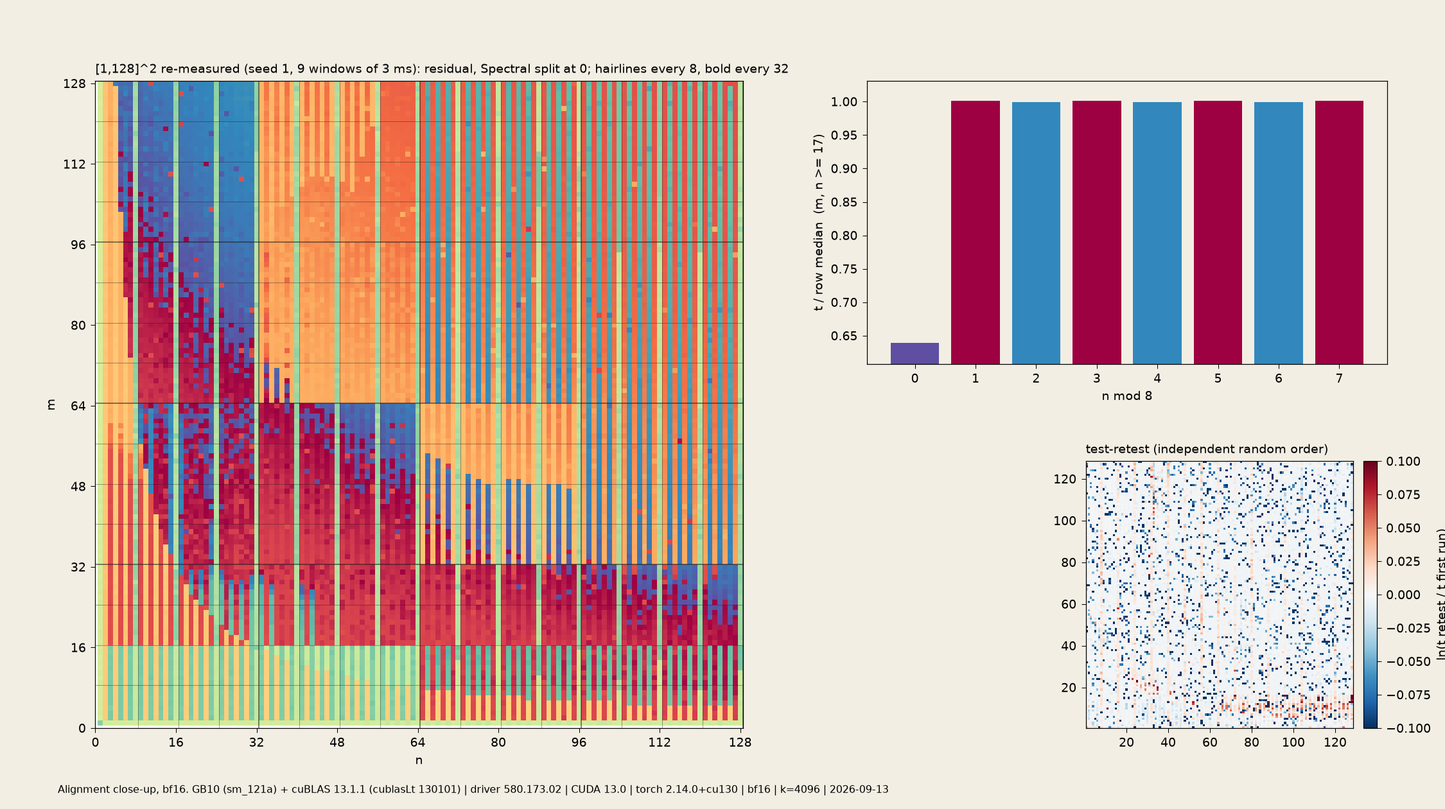
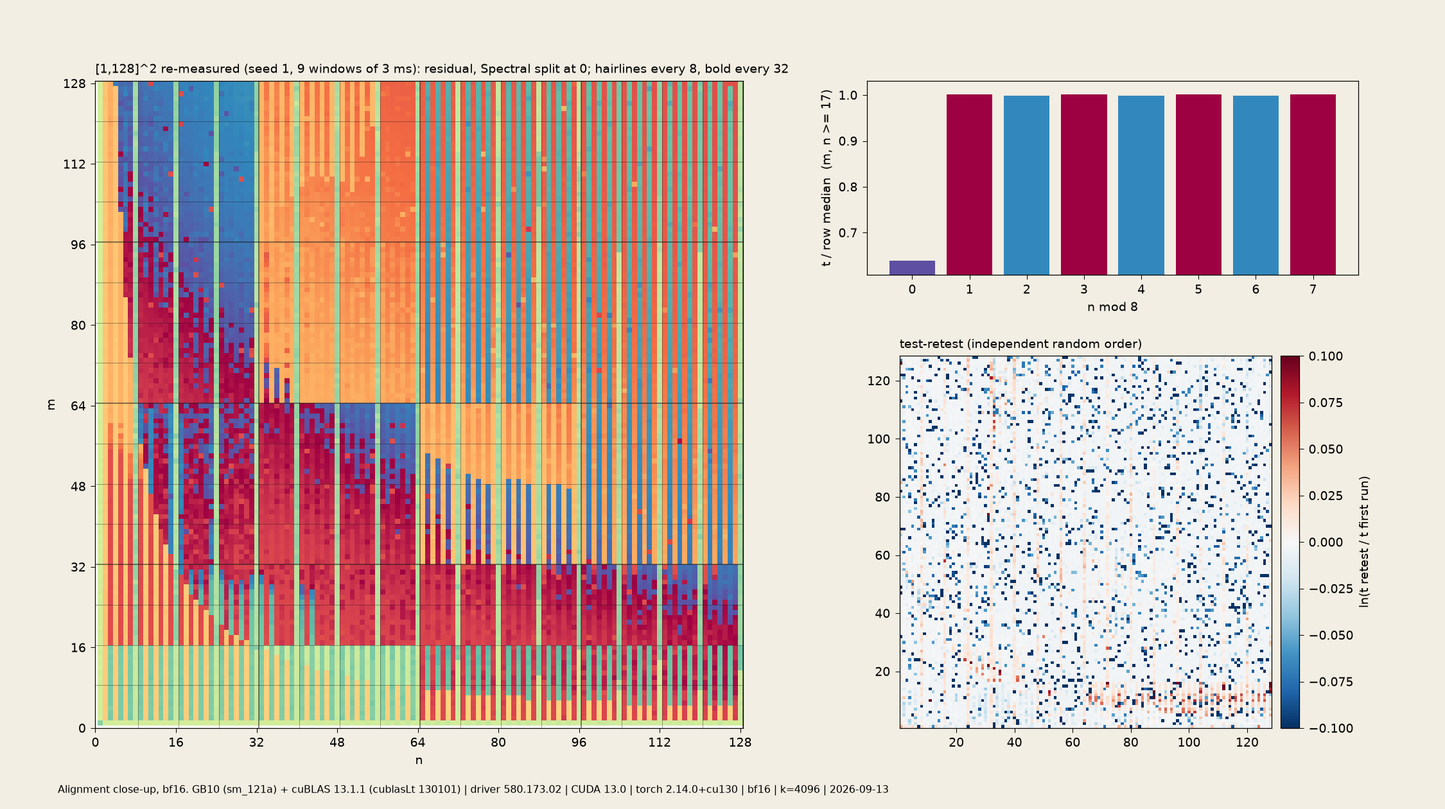
hardware/lattice: stride-13 [13,2041]^2 sweeps (bf16/fp16/fp32), cliff maps, parity-split mosaics/spectral, profiles, large triptych, README, NOTES complete

Changed region(s): [[0.56, 0.0929, 1.0, 0.9286]]

diff --git a/hardware/lattice/render_large.py b/hardware/lattice/render_large.py
@@ -1,0 +1,146 @@
+"""render_large.py - stride-13 [13,2041]^2 analysis + plates (no GPU). Writes cache/stats_large.json and
+gallery/{cliffs_*, large_triptych_spectral, profiles_plate_*}.  Run after render.py (which makes the per-run s2048 plates):
+    OMP_NUM_THREADS=1 taskset -c 0-4 nice python render_large.py
+"""
+import json
+import numpy as np
+from scipy.stats import spearmanr
+from render import *
+from render_compare import align_stats
+
+DTS = ("bf16", "fp16", "fp32")
+TAG = "{}_s2048_k4096"
+
+
+def jumps(r, kid):
+    """|delta residual| between neighbours in m (same n) and in n at the same parity (n vs n+26), and whether the
+    kernel label changes across that edge. Returns two lists of (J, boundary, i, j, axis)."""
+    out = []
+    Jm = np.abs(np.diff(r, axis=0)); Bm = kid[1:] != kid[:-1]
+    Jn = np.abs(r[:, 2:] - r[:, :-2]); Bn = kid[:, 2:] != kid[:, :-2]
+    return (Jm, Bm), (Jn, Bn)
+
+
+def cliff_stats(T, K, r, kid, kv):
+    (Jm, Bm), (Jn, Bn) = jumps(r, kid)
+    J = np.concatenate([Jm.ravel(), Jn.ravel()]); B = np.concatenate([Bm.ravel(), Bn.ravel()])
+    v = T["grid"]; labs = [l for l, _ in kv]
+    top = []
+    for arr, bb, ax in ((Jm, Bm, "m"), (Jn, Bn, "n")):
+        for flat in np.argsort(np.where(bb, arr, 0).ravel())[::-1][:6]:
+            i, j = np.unravel_index(flat, arr.shape)
+            i2, j2 = (i + 1, j) if ax == "m" else (i, j + 2)
+            top.append(dict(axis=ax, frm=[int(v[i]), int(v[j])], to=[int(v[i2]), int(v[j2])], ratio=float(np.exp(r[i2, j2] - r[i, j])),
+                            k_from=short_label(labs[kid[i, j]]), k_to=short_label(labs[kid[i2, j2]])))
+    top.sort(key=lambda d: -abs(np.log(d["ratio"])))
+    thr = np.log(1.2)
+    return dict(edges=int(J.size), boundary_edges=int(B.sum()),
+                median_jump_boundary=float(np.exp(np.median(J[B])) - 1), median_jump_interior=float(np.exp(np.median(J[~B])) - 1),
+                p90_jump_boundary=float(np.exp(np.percentile(J[B], 90)) - 1), p90_jump_interior=float(np.exp(np.percentile(J[~B], 90)) - 1),
+                frac_jumps_gt20pct_on_boundary=float(B[J > thr].mean()) if (J > thr).any() else None,
+                n_jumps_gt20pct=int((J > thr).sum()), top_cliffs=top[:8])
+
+
+def drift_stats(T, r):
+    ref = T["ref"]; rt = ref[:, 2] / np.median(ref[:, 2])
+    half = len(rt) // 2
+    rho, _ = spearmanr(T["pos"], r.ravel())
+    return dict(ref_range_pct=float(100 * (rt.max() - rt.min())), ref_std_pct=float(100 * rt.std()),
+                ref_first_half_over_second=float(np.median(rt[:half]) / np.median(rt[half:])),
+                spearman_residual_vs_order=float(rho),
+                iqr_median_pct=float(100 * np.median(T["iqr"])), iqr_p99_pct=float(100 * np.percentile(T["iqr"], 99)),
+                t_us=[float(T["t_med"].min() * 1e6), float(np.median(T["t_med"]) * 1e6), float(T["t_med"].max() * 1e6)],
+                gflops_max=float(gflops(T).max()), wall_min=T["info"]["wall_s"] / 60,
+                smi_before=T["info"]["smi_before"], smi_after=T["info"]["smi_after"])
+
+
+def cliff_plate(tag, T, r, kid, scale=13):
+    """Dark ground: faint log GFLOPS (oslo), kernel boundaries (parity-aware) lit by the residual jump across them (cet_fire)."""
+    import colorcet  # noqa: F401
+    G = T["G"]; g = P.rank_normalize(np.log(gflops(T)))
+    base = plt.get_cmap("cmc.oslo")(.03 + .22 * g)[..., :3]
+    big = np.repeat(np.repeat(base, scale, 0), scale, 1)
+    (Jm, Bm), (Jn, Bn) = jumps(r, kid)
+    lit = np.zeros((G * scale, G * scale))
+    for i, j in zip(*np.nonzero(Bm)):                      # edge between rows i and i+1 -> horizontal line
+        y = (i + 1) * scale; lit[y - 1:y + 1, j * scale:(j + 1) * scale] = np.maximum(lit[y - 1:y + 1, j * scale:(j + 1) * scale], Jm[i, j])
+    for i, j in zip(*np.nonzero(Bn)):                      # same-parity neighbours (j, j+2) -> vertical line at j+1 centre
+        x = (j + 1) * scale + scale // 2; lit[i * scale:(i + 1) * scale, x - 1:x + 1] = np.maximum(lit[i * scale:(i + 1) * scale, x - 1:x + 1], Jn[i, j])
+    on = lit > 0
+    u = np.clip(np.log1p(lit / .02) / np.log1p(.5 / .02), 0, 1)   # 2 % .. 65 % jump -> dim .. white-hot (declared log scale)
+    col = plt.get_cmap("cet_fire")(.25 + .75 * u)[..., :3]
+    big[on] = col[on]
+    save_rgb(big, f"cliffs_fire_{tag}")
+
+
+def profiles_plate(tag, T, K, kid, kv, cst):
+    """Survey sheet: GFLOPS along m for four n (odd, even, n % 8 == 0), step changes marked where the kernel switches."""
+    v = T["grid"]; G = T["G"]; g = gflops(T)
+    picks = [(1027, "#9e0142"), (1040, "#5e4fa2"), (1014, "#3288bd"), (1521, "#f46d43")]
+    fig, (ax, bx) = plt.subplots(1, 2, figsize=(15, 6.2), facecolor=PAPER, gridspec_kw=dict(width_ratios=[1.35, 1]))
+    for n0, c in picks:
+        j = int(np.argmin(np.abs(v - n0))); n = int(v[j])
+        ax.plot(v, g[:, j], color=c, lw=1.0, drawstyle="steps-mid", label=f"n = {n}  ({'odd' if n % 2 else ('n % 8 = 0' if n % 8 == 0 else 'even')})")
+        sw = np.nonzero(kid[1:, j] != kid[:-1, j])[0]
+        ax.plot(v[sw + 1], g[sw + 1, j], "|", color=c, ms=9, mew=.8)
+    ax.set_xlabel("m"); ax.set_ylabel("GFLOPS  (2 m k n / t)"); ax.set_facecolor(PAPER); ax.legend(frameon=False, fontsize=8)
+    ax.set_title("Throughput along m at fixed n; ticks = profiler kernel switch", loc="left", fontsize=9)
+    rel = T["t_med"].reshape(G, G) / np.median(T["t_med"].reshape(G, G), axis=1, keepdims=True)
+    for q, c, lab in ((1, "#9e0142", "odd n"), (0, "#3288bd", "even n, n % 8 != 0"), (8, "#5e4fa2", "n % 8 == 0")):
+        sel = (v % 2 == 1) if q == 1 else ((v % 2 == 0) & (v % 8 != 0) if q == 0 else (v % 8 == 0))
+        bx.plot(v, np.median(rel[:, sel], axis=1), color=c, lw=1, label=lab)
+    bx.set_xlabel("m"); bx.set_ylabel("t / row median"); bx.set_facecolor(PAPER); bx.legend(frameon=False, fontsize=8)
+    bx.set_title("Alignment penalty by n class, per row m", loc="left", fontsize=9)
+    fig.text(.05, .015, f"Lattice, stride-13 grid [13, 2041]^2. Jumps across kernel boundaries: median {100*cst['median_jump_boundary']:.1f} %, "
+             f"interior {100*cst['median_jump_interior']:.1f} %.  " + stack_line(T["info"]), fontsize=7.5)
+    fig.subplots_adjust(left=.05, right=.98, top=.93, bottom=.14, wspace=.18)
+    fig.savefig(f"{GAL}/profiles_plate_{tag}.png", dpi=150, facecolor=PAPER); plt.close(fig)
+
+
+def triptych_large(runs, stats):
+    fig, axs = plt.subplots(1, 3, figsize=(18, 6.6), facecolor=NIGHT)
+    for ax, (dt, (T, K, r, kid, kv)) in zip(axs, runs.items()):
+        ax.imshow(P.render_split(r, "sd_spectral"), origin="lower", extent=[6.5, 2047.5, 6.5, 2047.5], interpolation="nearest")
+        ax.set_xticks([]); ax.set_yticks([])
+        ax.set_title(f"{dt}   {len(kv)} kernels   odd/even-n time x{stats[dt]['n odd / n even']:.2f}   n%8 x{stats[dt]['n%8==0 vs rest']:.2f}",
+                     color="#ddd", fontsize=10, loc="left")
+    fig.text(.01, .02, "Stride-13 grid m, n in [13, 2041], k = 4096. Residual ln t vs robust overhead+linear fit, Sohl-Dickstein Spectral split at 0 "
+             "(purple = faster than trend; declared).   " + stack_line(runs["bf16"][0]["info"]).split(" | bf16")[0], color="#aaa", fontsize=8)
+    fig.subplots_adjust(left=.01, right=.99, top=.93, bottom=.06, wspace=.03)
+    fig.savefig(f"{GAL}/large_triptych_spectral.png", dpi=130, facecolor=NIGHT); plt.close(fig)
+
+
+def spectral_split(tag, T, r, scale=13):
+    """Residual Spectral plate with odd-n and even-n sub-lattices as separate panels (columns doubled), so the parity
+    stripes stop dominating and each sub-lattice's cells read."""
+    G = T["G"]; W = G * scale; gap = 16
+    img = np.ones((W, 2 * W + gap, 3)) * to_rgb(NIGHT)
+    for k, off in enumerate((0, 1)):
+        sub = P.render_split(r[:, off::2], "sd_spectral", near_boundary="small")
+        big = np.repeat(np.repeat(sub, scale, 0), 2 * scale, 1)[:, :W]
+        x0 = k * (W + gap); img[:, x0:x0 + big.shape[1]] = big
+    save_rgb(img, f"lattice_spectral_split_{tag}")
+
+
+def main():
+    stats, runs = {}, {}
+    for dt in DTS:
+        tag = TAG.format(dt)
+        if not (exists("time", tag) and exists("kernels", tag)):
+            continue
+        T, K = load("time", tag), load("kernels", tag)
+        r, _ = trend_residual(T)
+        labs = [kernel_label(s) for s in K["names"]]; kid, kv = categorize(labs, T["G"])
+        st = align_stats(T, lo=0)
+        st.update(n_kernels=len(kv), n_fp=len(set(map(tuple, T["fp"]))), kernels_top=[(short_label(l), c) for l, c in kv[:8]])
+        st.update(drift_stats(T, r)); st["cliffs"] = cliff_stats(T, K, r, kid, kv)
+        stats[dt] = st; runs[dt] = (T, K, r, kid, kv)
+        cliff_plate(tag, T, r, kid); spectral_split(tag, T, r); profiles_plate(tag, T, K, kid, kv, st["cliffs"])
+    if len(runs) == 3:
+        triptych_large(runs, stats)
+    json.dump(stats, open(f"{CACHE}/stats_large.json", "w"), indent=1)
+    print(json.dumps({k: {kk: vv for kk, vv in v.items() if "smi" not in kk} for k, v in stats.items()}, indent=1))
+
+
+if __name__ == "__main__":
+    main()

diff --git a/hardware/lattice/render.py b/hardware/lattice/render.py
@@ -138,12 +138,22 @@ def plate_mosaic(tag, T, K, scale=8):
         sub = kid[:, off::2]
         e = np.repeat(np.repeat(sub, scale, 0), 2 * scale, 1)
         e = binary_dilation(boundaries(e), iterations=1)
+        e = np.pad(e, ((0, 0), (0, max(0, big.shape[1] - e.shape[1]))))
         e = np.roll(e, off * scale, 1)[:, :big.shape[1]]
         covs.append(e.astype(float))
     save_rgb(P.overprint([covs[0] * .9, np.roll(covs[1], (2, 3), (0, 1)) * .9], ["#ff48b0", "#0078bf"], paper=PAPER),
              f"dispatch_contours_riso_{tag}")
     line = np.ones(big.shape + (3,)) * to_rgb(PAPER); line[(covs[0] + covs[1]) > 0] = to_rgb(INK)
     save_rgb(line, f"dispatch_contours_ink_{tag}")
+    # parity-split mosaic: odd-n and even-n sub-lattices as two panels (each column doubled so aspect is kept).
+    # In the interleaved mosaic, alternating complementary hues average to grey-tan at any display size < 1:1.
+    # Works on both grids: g256 columns alternate parity, and so does the stride-13 grid (13, 26, 39, ...).
+    gap = max(4, scale // 2)
+    panels = [np.repeat(np.repeat(kid[:, off::2], scale, 0), 2 * scale, 1)[:, :big.shape[1]] for off in (0, 1)]
+    img = np.ones((big.shape[0], 2 * big.shape[1] + gap, 3)) * to_rgb(PAPER)
+    img[:, :panels[0].shape[1]] = mosaic_rgb(panels[0], cols)
+    img[:, big.shape[1] + gap:big.shape[1] + gap + panels[1].shape[1]] = mosaic_rgb(panels[1], cols)
+    save_rgb(img, f"dispatch_mosaic_split_{tag}")
     fid, fv, fcols = label_fp_by_kernel(T, K)
     save_rgb(mosaic_rgb(np.repeat(np.repeat(fid, scale, 0), scale, 1), fcols), f"fingerprint_mosaic_{tag}")
     return kid, kv, cols, fid, fv

diff --git a/hardware/lattice/render_compare.py b/hardware/lattice/render_compare.py
@@ -88,7 +88,7 @@ def closeup_plate(R, K, lr):
     kid, kv = categorize([kernel_label(s) for s in K["names"]], 256)
     kid = kid[:G, :G]
     fig = plt.figure(figsize=(15, 8.4), facecolor=PAPER)
-    ax = fig.add_axes([.04, .1, .5, .8]); ax2 = fig.add_axes([.6, .55, .36, .35]); ax3 = fig.add_axes([.6, .1, .36, .33])
+    ax = fig.add_axes([.04, .1, .5, .8]); ax2 = fig.add_axes([.6, .66, .34, .24]); ax3 = fig.add_axes([.6, .1, .3, .46])
     ax.imshow(P.render_split(r, "sd_spectral"), origin="lower", extent=[.5, G + .5, .5, G + .5], interpolation="nearest")
     ed = boundaries(kid)
     yy, xx = np.nonzero(ed)

diff --git a/hardware/lattice/README.md b/hardware/lattice/README.md
@@ -1,0 +1,168 @@
+# Lattice: the matmul performance map of one GB10 and one cuBLAS
+
+*Time `torch.mm` at every shape and colour the grid. What you get is not a smooth surface but a woven textile: stripes by the parity of one dimension, a lattice every 8, tiles every 128 and 256, and mosaic cells where the library's heuristic switches kernels.*
+
+<img src="gallery/lattice_spectral_split_bf16_s2048_k4096.png" width="100%">
+
+<sub>Hero: bf16, stride-13 grid m, n ∈ [13, 2041], k = 4096. Left panel is odd n, right panel is even n (each column doubled). Colour is the residual of ln t against a robust overhead+linear size fit, Sohl-Dickstein Spectral split at 0 and rank-normalised per side (purple = faster than the size trend, red = slower). The residual is measured; the detrending and the colour map are declared choices.</sub>
+
+## The phenomenon
+
+`C = torch.mm(A, B)` with A ∈ R^(m×k) and B ∈ R^(k×n) (k = 4096 fixed) costs 2·m·k·n FLOPs. If hardware were a smooth machine, the time would follow
+
+  t(m, n) ≈ a + b·m + c·n + d·m·n
+
+(fixed dispatch overhead plus linear compute), and GFLOPS = 2mkn/t would be a smooth ramp. In practice cuBLAS/cuBLASLt picks among dozens of kernels (cutlass tensor-op GEMMs with different tile sizes and alignment, nvjet, small-matrix gemmSN) using heuristics over shape, dtype and alignment. Each kernel tiles the matrix into blocks (128×128, 256×128, ...), so time within a kernel's region saw-tooths with the tile period, and the region boundaries are discontinuities. The piece is the map of those decisions: it shows **software (one library version's heuristics) running on hardware**, not the silicon alone.
+
+## Stack
+
+| | |
+|---|---|
+| GPU | NVIDIA GB10 (sm_121a, capability 12.1), ~120 GB unified memory |
+| Driver | 580.173.02 |
+| CUDA (torch build) | 13.0 |
+| torch | 2.14.0+cu130, BLAS backend cuBLAS |
+| cuBLAS | **13.1.1**, cublasLt **130101** |
+| CUBLAS_WORKSPACE_CONFIG | unset (default workspace) |
+| Date | 2026-09-13; machine idle, no other compute processes during any timing run |
+
+## Hero plates
+
+<table>
+<tr><td width="50%"><img src="gallery/lattice_spectral_fp32_s2048_k4096.png"></td><td width="50%"><img src="gallery/cliffs_fire_fp32_s2048_k4096.png"></td></tr>
+<tr><td><sub>fp32, [13, 2041]²: residual, Spectral split at 0. A plaid of 128- and 256-periodic tiles, each with its own saw-tooth gradient.</sub></td>
+<td><sub>fp32 cliff map: kernel boundaries (profiler) lit by the residual jump across them (cet_fire, log scale 2 % to 65 %), over faint log GFLOPS (oslo).</sub></td></tr>
+</table>
+
+<img src="gallery/large_triptych_spectral.png" width="100%">
+
+<sub>Large-scale dtype triptych (bf16 / fp16 / fp32), same residual and Spectral mapping. The half-precision maps are woven by n parity; fp32 has no parity stripes but shows large polygonal kernel cells.</sub>
+
+## Findings
+
+All ratios are medians over rows m of t / (row median), comparing columns in one class of n against the rest.
+
+**[1, 256]², every integer (65 536 shapes per run)**
+
+| run | kernels | fingerprint classes | odd-n / even-n time | n%8==0 vs rest | noise: IQR/median (median, p99) | 200×200 reference std |
+|---|---|---|---|---|---|---|
+| bf16 | 30 | 52 | **×1.29** | **×0.70** | 0.15 %, 24 % | 3.2 % |
+| fp16 | 36 | 55 | ×1.24 | ×0.72 | 0.17 %, 26 % | 3.2 % |
+| fp32 | 18 | 14 | ×1.00 | ×1.00 (n%64: ×0.95) | 0.12 %, 28 % | 3.0 % |
+| fp32 + TF32 | 16 | 13 | ×1.02 | ×0.85 | 0.14 %, 31 % | 3.4 % |
+
+**[13, 2041]², stride 13 (24 649 shapes per run)**
+
+| run | wall | kernels | fp classes | odd-n / even-n | n%8==0 vs rest | median jump across kernel boundary / inside a cell | jumps > 20 % lying on a boundary | GFLOPS max |
+|---|---|---|---|---|---|---|---|---|
+| bf16 | 3.3 min | 70 | 45 | **×1.85** | ×0.71 | 15.1 % / 2.1 % | 79 % | 105 k |
+| fp16 | 3.3 min | 77 | 52 | ×1.83 | ×0.72 | 14.9 % / 2.1 % | 79 % | 105 k |
+| fp32 | 4.1 min | 11 | 22 | ×1.01 | ×1.00 | 12.4 % / 2.7 % | 58 % | 20 k |
+
+1. **Odd-n align1 slowdown (bf16/fp16).** Odd n runs `cutlass_75 tensorop s1688gemm ... align1`; even n runs `cutlass_80 tensorop s16816gemm ... align2` (align8 / wmma variants on multiples of 8). Odd n is ×1.29 slower on [1, 256]² and **×1.85** slower on the large grid: at m, n ≈ 1000 an odd-n matmul delivers ~40 k GFLOPS and a neighbouring even n ~80 to 100 k (`profiles_plate_bf16_s2048_k4096.png`). Only n (columns of C) carries the alignment; m%2, m%8, m%16 are all ×1.00.
+2. **Multiple-of-8 lattice at ×0.70.** Columns with n%8 == 0 are ×0.70 the time of the rest (bf16 [1,256]²; ×0.64 of the row median in the [1,128]² retest, n%8 = 1..7 all ≈ ×1.00 of it). On the stride-13 grid multiples of 8 fall every 8th column (n = 104j), so the lattice reappears as a 104-periodic comb.
+3. **Tile saw-tooths beyond 256.** Inside a kernel region the residual ramps and resets with the kernel's tile size: FFT of the bf16/fp16 residual (odd n, m, n ≥ 260) peaks at period ≈ 128 along both m and n (bins at 122 and 132, harmonic at 63). fp32 peaks at ≈ 128 along m and ≈ 256 along n, matching the `sgemm_256x128` / `128x64` / `128x128` tilings.
+4. **fp32 polygonal kernel cells.** fp32 has no alignment stripes. Instead, large polygonal cells of `cutlass_80 sgemm` tilings with smooth internal gradients (g256), and at large scale a plaid: `sgemm_256x128` is chosen almost only when n mod 256 ∈ [128, 256) (3 673 of 3 704 shapes with m, n ≥ 520) and runs ×0.93 of the trend, against ×1.02 to ×1.04 for its neighbours. A diagonal boundary and hyperbolic (m·n ≈ const) boundaries cut across the plaid.
+5. **Cliffs are kernel switches, not memory.** Across kernel boundaries the residual jumps a median of 15 % (p90 38 %) against 2 % inside cells, and 79 % of all neighbour jumps above 20 % sit on a profiler-detected boundary (bf16). The largest are ×2: at m = 26, n%8 == 0, n ≥ 1560 the heuristic picks `nvjet tst_mma_192x8x64` over the neighbouring `s16816 align2` kernel and is **×2.15 slower** (n = 1950 → 1976, bf16; ×2.06 in fp16). There is **no memory cliff** out to 2041: the largest C is 2041×2041 (a few MB) on 120 GB of unified memory, and GFLOPS keeps rising or saturates with m. The doc's "cliffs where a matrix stops fitting in fast memory" did not appear in this range.
+6. **Square islands.** In the odd-n bf16 panel, square islands of `s1688 128x256` appear inside the `128x128` sea, where m and n both lie in windows near [897, 1014] and [1417, 1521] (period ≈ 520, edges ±13 from the stride). They run at the same speed as the sea (residual ×1.76 vs ×1.81), so this is a visible heuristic decision with no performance consequence.
+7. **TF32 ×1.50.** Enabling `allow_tf32` for fp32 changes the kernel at 99.2 % of shapes; median speed-up ×1.50 (range ×0.54 to ×5.2) and brings back an n%8 lattice (×0.85).
+8. **Deterministic dispatch.** A bf16 [1,128]² retest (seed 1, independent random order, 9 windows of 3 ms) reproduced the bitwise output fingerprint at **100 %** of shapes, so kernel choice is deterministic and the map is not noise. Timing test-retest: median |ln t₂/t₁| = 0.28 %; 9.8 % of shapes differ by > 5 %, as isolated speckle with no spatial structure. Profiler kernel label and fingerprint class agree well but not one-to-one (bf16 g256: kernel→fp purity 0.79, fp→kernel 0.87; s2048: 0.56 / 0.69; one kernel label can round differently depending on shape, plausibly via tile remainders, which was not verified).
+
+## Gallery
+
+### Large scale, [13, 2041]² stride 13
+<table>
+<tr><td width="50%"><img src="gallery/dispatch_mosaic_split_bf16_s2048_k4096.png"></td><td width="50%"><img src="gallery/dispatch_mosaic_fp32_s2048_k4096.png"></td></tr>
+<tr><td><sub>bf16 dispatch mosaic, odd-n | even-n panels: which kernel ran (torch.profiler). Declared categorical scheme: hue by kernel family (orange cutlass_75 align1, blue cutlass_80 align2/8, green wmma, violet nvjet), lightness interleaved within family.</sub></td>
+<td><sub>fp32 dispatch mosaic (RdPu = cutlass sgemm tilings). The 256-periodic plaid and the diagonal cut are the heuristic's decision boundaries.</sub></td></tr>
+<tr><td><img src="gallery/cliffs_fire_bf16_s2048_k4096.png"></td><td><img src="gallery/lattice_spectral_split_fp16_s2048_k4096.png"></td></tr>
+<tr><td><sub>bf16 cliff map: boundaries lit by the jump across them. Vertical lines = the multiple-of-8 comb.</sub></td><td><sub>fp16 residual, odd-n | even-n (Spectral split). Nearly identical to bf16: same kernels with different names (tst vs hsh nvjet).</sub></td></tr>
+<tr><td><img src="gallery/throughput_dark_bf16_s2048_k4096.png"></td><td><img src="gallery/fingerprint_mosaic_fp32_s2048_k4096.png"></td></tr>
+<tr><td><sub>bf16 GFLOPS, rank-normalised, lajolla on dark. Measured throughput, no detrending.</sub></td><td><sub>fp32 bitwise fingerprint classes, coloured by each class's majority kernel family.</sub></td></tr>
+<tr><td><img src="gallery/dispatch_contours_ink_fp32_s2048_k4096.png"></td><td><img src="gallery/lattice_aurora_ember_fp32_s2048_k4096.png"></td></tr>
+<tr><td><sub>fp32 kernel-region contours, single ink on paper.</sub></td><td><sub>fp32 residual, palettes.py aurora_ember split pairing (declared).</sub></td></tr>
+</table>
+
+<img src="gallery/profiles_plate_bf16_s2048_k4096.png" width="100%">
+<sub>Survey sheet: GFLOPS along m at four fixed n (ticks = kernel switch), and the per-row alignment penalty by n class.</sub>
+
+<img src="gallery/plate_fp32_s2048_k4096.png" width="100%">
+<sub>Scientific plate (fp32, large): time (batlow log), residual (RdBu), kernel mosaic with legend, fingerprint mosaic, drift inset, nvidia-smi before/after.</sub>
+
+Also in `gallery/`: `plate_{bf16,fp16}_s2048_k4096.png`, `lattice_{spectral,fire,aurora_ember,cyanotype_vandyke}_*_s2048_k4096.png`, `dispatch_contours_{riso,ink}_*_s2048_k4096.png`, `cliffs_fire_fp16_s2048_k4096.png`, `profiles_plate_{fp16,fp32}_s2048_k4096.png`.
+
+### [1, 256]², every integer
+<table>
+<tr><td width="50%"><img src="gallery/lattice_spectral_fp32_g256_k4096.png"></td><td width="50%"><img src="gallery/lattice_spectral_bf16_g256_k4096.png"></td></tr>
+<tr><td><sub>fp32 residual, Spectral split: polygonal kernel cells with smooth internal gradients.</sub></td><td><sub>bf16 residual, Spectral split: parity stripes, bands at m = 16/32/64/128, hyperbolic boundaries at small sizes.</sub></td></tr>
+<tr><td><img src="gallery/dispatch_mosaic_fp32_g256_k4096.png"></td><td><img src="gallery/dispatch_mosaic_split_bf16_g256_k4096.png"></td></tr>
+<tr><td><sub>fp32 dispatch mosaic.</sub></td><td><sub>bf16 dispatch mosaic, odd-n | even-n panels (see palette note below).</sub></td></tr>
+<tr><td><img src="gallery/dispatch_contours_riso_bf16_g256_k4096.png"></td><td><img src="gallery/lattice_fire_fp16_g256_k4096.png"></td></tr>
+<tr><td><sub>Two-spot riso contours: pink = odd-n sub-lattice region boundaries, blue = even-n, declared misregistration.</sub></td><td><sub>fp16 rank residual, cet_fire on dark.</sub></td></tr>
+<tr><td><img src="gallery/lattice_cyanotype_vandyke_fp32_g256_k4096.png"></td><td><img src="gallery/riso_closeup_bf16_g256_k4096_1-128.png"></td></tr>
+<tr><td><sub>fp32 residual, cyanotype/vandyke split pairing.</sub></td><td><sub>[1,128]² riso close-up: blue = slower than trend (dithered), pink = kernel boundaries.</sub></td></tr>
+</table>
+
+<img src="gallery/dtype_triptych_spectral.png" width="100%">
+<sub>[1,256]² dtype triptych, Spectral residual.</sub>
+
+<table>
+<tr><td width="50%"><img src="gallery/tf32_diptych_plate.png"></td><td width="50%"><img src="gallery/tf32_ratio_spectral.png"></td></tr>
+<tr><td><sub>fp32 vs fp32+TF32 kernel mosaics.</sub></td><td><sub>ln(t_fp32 / t_tf32), Spectral split at 1× (declared).</sub></td></tr>
+</table>
+
+<img src="gallery/alignment_closeup_plate.png" width="100%">
+<sub>Alignment close-up [1,128]² (bf16 retest): residual with hairlines every 8, bars of time by n mod 8, test-retest map.</sub>
+
+Per-run variants for all four [1,256]² runs (`plate_*`, `throughput_dark_*`, `fingerprint_mosaic_*`, `dispatch_contours_*`, `lattice_*`) and `alignment_closeup_spectral.png` are also in `gallery/`.
+
+**Palette critique.** The interleaved bf16/fp16 dispatch mosaic uses complementary hues (orange align1 vs blue align2) on alternating columns; at any display size below 1:1 they average to a grey-tan mud. The fix is a parity split (`dispatch_mosaic_split_*`, `lattice_spectral_split_*`): odd and even n are two interleaved dispatch lattices, shown side by side. Each panel then reads as clean cells. The interleaved versions remain in the gallery for full-resolution viewing. The fp32 RdPu mosaic has no parity weave and needs no split.
+
+## What was computed
+
+- **Operation:** `torch.mm(A, B, out=C)`, A m×4096, B 4096×n, preallocated outputs.
+- **Inputs = cancellation probes** (`sweep.py:masters`): all rows of A identical and all columns of B identical, with 64 products of ±2^E that cancel exactly plus 4 032 small terms. Every entry of C is therefore the same sum, and its bits depend only on the kernel's accumulation order and precision. That makes the fingerprint (bits of C[0,0], C[m/2,n/2], C[-1,-1] for two probes) shape-independent.
+- **Timing per shape:** 3 warmup calls, 1 estimate, then N calls per window so each window is ≥ 1.5 ms, median of 5 windows with `torch.cuda.synchronize()`. Shapes in random order (seed 0). A 200×200 reference and the 1×1 overhead probe were re-timed every 256 shapes.
+- **Kernel names:** a separate `--mode kernels` pass under `torch.profiler`. Kernels are mapped to shapes via correlation id → launch timestamp → `record_function` range. That this association is valid rests on deterministic dispatch (finding 8).
+- **Grids:** g256 = every integer in [1, 256]²; g128 retest; s2048 = {13, 26, ..., 2041}² (157² shapes).
+- **Hygiene:** `run_all.sh` runs jobs sequentially and waits for GPU ≤ 50 °C and util ≤ 5 % before each. nvidia-smi, compute apps and loadavg are recorded before/after in every npz and in `logs/campaign.log`, with full `nvidia-smi` dumps in `logs/smi_{before,after}_s2048.txt`. No other compute process was present in any run. Rendering ran pinned to efficiency cores (`taskset -c 0-4`) under `nice`.
+- **GPU time:** about 45 min in total (4 × g256 ≈ 26 min, retest ≈ 5 min, 3 × s2048 ≈ 11 min, profiler passes < 2 min).
+
+```bash
+cd /home/fzeng/ml/research/hardware/lattice
+./run_all.sh "--dtype bf16 --grid g256" "--dtype bf16 --grid g256 --mode kernels"      # likewise fp16, fp32, "fp32 --tf32"
+./run_all.sh "--dtype bf16 --grid g128 --seed 1 --reps 9 --window 3e-3 --tag _retest"
+./run_all.sh "--dtype bf16 --grid s2048" "--dtype bf16 --grid s2048 --mode kernels" \
+             "--dtype fp16 --grid s2048" "--dtype fp16 --grid s2048 --mode kernels" \
+             "--dtype fp32 --grid s2048" "--dtype fp32 --grid s2048 --mode kernels"
+P=/home/fzeng/ml/research/art/.venv/bin/python
+OMP_NUM_THREADS=4 $P render.py            # per-run plates (all tags present in cache/)
+OMP_NUM_THREADS=4 $P render_compare.py    # triptych, TF32, retest close-up -> cache/stats.json
+OMP_NUM_THREADS=4 $P render_large.py      # s2048 cliffs, profiles, splits, triptych -> cache/stats_large.json
+$P quicklook.py bf16_s2048_k4096          # kernel vocabulary, purity, noise
+```
+
+## Verification, noise and drift
+
+- **Measurement noise:** the median within-shape IQR/median is 0.12 to 0.17 % (g256) and 0.23 to 0.27 % (s2048). The p99 is 24 to 31 %: a few percent of shapes are noisy, mostly at small sizes where a call takes 4 to 50 µs and CPU overhead dominates.
+- **Drift:** the 200×200 reference has std 3.0 to 3.4 % (g256) and 2.1 to 3.0 % (s2048). Its range over a run is 15 to 20 % at s2048, because GPU temperature rises from ≤ 51 °C to 78 to 82 °C (86 to 92 W) during a 3 to 4 min large sweep (g256: 41 → ~69 °C). The median of the first half of reference times over the second half is ×0.99 to ×1.00, and Spearman ρ between residual and measurement order is 0.03 (bf16), 0.03 (fp16) and 0.05 (fp32). Randomized order keeps drift from painting gradients: it shows up as speckle, not structure. The 1×1 overhead probe (6.1 to 9.7 µs) ramps ~20 % during the first ~30 s of a run, then stays flat.
+- **Test-retest:** 100 % fingerprint identity, median timing difference 0.28 % (finding 8).
+- **Structure vs noise:** kernel boundaries carry 7× the median residual jump of cell interiors, and the 128/256 periods match the kernel names' tile sizes.
+- **No fractal claim.** The structure is periodic and nested (8 → 128 → 256 tiles, square islands), not self-similar, and no box-counting dimension is claimed.
+
+## Caveats
+
+- **This maps software on hardware.** It is a portrait of GB10 + cuBLAS 13.1.1 / cublasLt 130101 + driver 580.173.02 + torch 2.14, with the default workspace. A different library version, workspace size (`CUBLAS_WORKSPACE_CONFIG`) or `torch.backends.cuda.preferred_blas_library` would redraw the mosaic. It is not "the GB10's" intrinsic map.
+- Only n shows alignment. This is presumably a consequence of how torch maps row-major `mm` onto cuBLAS's column-major GEMM (which operand dimension becomes the kernel's aligned one); not verified with a transposed call.
+- The residual plates depend on a declared detrending (robust fit of t to a + bm + cn + dmn in relative error), so the seam at 0 means "as fast as the smooth size trend predicts". Spectral rank-normalisation per side is aesthetic. Use the GFLOPS plates (`throughput_dark_*`, plate panel a) for raw throughput.
+- Small shapes (< ~32) are dominated by the ~6 to 10 µs Python/dispatch overhead. Their colours reflect overhead as much as kernels.
+- The stride-13 grid aliases: multiples of 8 appear every 104 in n, and boundaries are located only to ±13. The large sweep has no retest of its own; determinism is inferred from the g128 retest plus bitwise fingerprints.
+- The kernel pass is a separate run from the timing pass (profiler overhead would distort timing). The label ↔ time association assumes deterministic dispatch, which the fingerprints support.
+- One device, one day, one k (4096). Other k values give different maps.
+
+## References
+
+- NVIDIA cuBLAS / cuBLASLt documentation: heuristics (`cublasLtMatmulAlgoGetHeuristic`), workspace, alignment requirements for tensor-op kernels.
+- NVIDIA, *Matrix Multiplication Background User's Guide* (Deep Learning Performance docs): dimensions as multiples of 8 for tensor cores.
+- Sohl-Dickstein, *The boundary of neural network trainability is fractal* (2024), github.com/Sohl-Dickstein/fractal: Spectral split colouring convention.
+- `hardware/hw-art-directions.md` §6 (proposal); `/home/fzeng/ml/research/art/color-research/palettes.py` (split pairings, overprint).

diff --git a/hardware/lattice/NOTES.md b/hardware/lattice/NOTES.md
@@ -42,11 +42,19 @@
   alignment_closeup_plate: retest panel is small, could be enlarged.
 - Strongest so far: lattice_spectral_fp32_g256_k4096.png, lattice_spectral_bf16_g256_k4096.png, dtype_triptych_spectral.png.
 
-## Next (successor)
-1. Large sweep (not yet run; campaign runner stopped deliberately at handoff so no background process remains):
-   `cd hardware/lattice && nohup ./run_all.sh "--dtype bf16 --grid s2048" "--dtype bf16 --grid s2048 --mode kernels" "--dtype fp16 --grid s2048" "--dtype fp16 --grid s2048 --mode kernels" "--dtype fp32 --grid s2048" "--dtype fp32 --grid s2048 --mode kernels" > logs/nohup3.txt 2>&1 &`
-   (stride-13 grid 13..2041, 157^2 shapes; est. 5-10 min per timing job). Then `python render.py` (handles s2048 tags, scale 13) and look for cliffs.
-2. View new palette mosaics (render.py FAMILY now uses interleaved positions on per-family matplotlib ramps) and the alignment close-up plate; fix weaknesses.
-3. README.md (hook, phenomenon, hero, gallery with captions "GB10 + cuBLAS 13.1.1", what was computed, verification incl. retest + fingerprint/kernel purity
-   (bf16: kernel->fp 0.79, fp->kernel 0.87), caveats: map of software not silicon; overhead-dominated small shapes; residual detrend is declared).
-4. Commit: `/home/fzeng/ml/research/art/_shared/commit.sh hardware/lattice "..."`.
+## Stride-13 [13,2041]^2 campaign (done 2026-09-13 23:12-23:30, idle GPU; smi dumps logs/smi_{before,after}_s2048.txt)
+| run | wall | kernels | fp | odd/even-n | n%8 | boundary/interior jump | >20% jumps on boundary | ref range/std | rho(resid, order) | temp |
+|---|---|---|---|---|---|---|---|---|---|---|
+| bf16 | 3.3 min | 70 | 45 | 1.85 | 0.71 | 15.1/2.1 % | 79 % | 15.8/2.6 % | 0.03 | 42->78 C |
+| fp16 | 3.3 | 77 | 52 | 1.83 | 0.72 | 14.9/2.1 % | 79 % | 19.8/3.0 % | 0.03 | 51->82 |
+| fp32 | 4.1 | 11 | 22 | 1.01 | 1.00 | 12.4/2.7 % | 58 % | 14.6/2.1 % | 0.05 | 51->82 |
+- Residual saw-tooth period ~128 (m and n; fp32 n: ~256). fp32 sgemm_256x128 only where n mod 256 >= 128 (plaid). Biggest cliff: m=26, n%8==0,
+  n>=1560 -> nvjet 192x8x64, x2.15 slower. Square s1688_128x256 islands (odd n, windows ~897-1014, 1417-1521), same speed. No memory cliff.
+- New code: render_large.py (cliffs_fire_*, lattice_spectral_split_*, profiles_plate_*, large_triptych_spectral, cache/stats_large.json);
+  render.py adds dispatch_mosaic_split_* (fix for grey mud of interleaved orange/blue parity stripes) + pad fix for odd G;
+  render_compare.py closeup plate: retest panel enlarged.
+
+## Status: COMPLETE
+README.md written (stack, findings, noise/drift, caveats, gallery), link check passed (all src paths exist), committed. No background processes.
+Strongest: gallery/lattice_spectral_split_bf16_s2048_k4096.png, gallery/lattice_spectral_fp32_s2048_k4096.png, gallery/cliffs_fire_fp32_s2048_k4096.png.
+Possible extras (not required): retest at s2048; transposed-call check of why only n carries alignment; other k.
